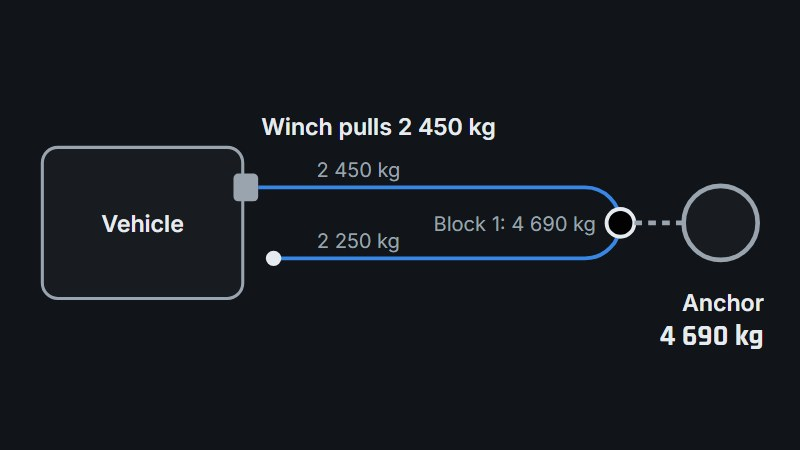
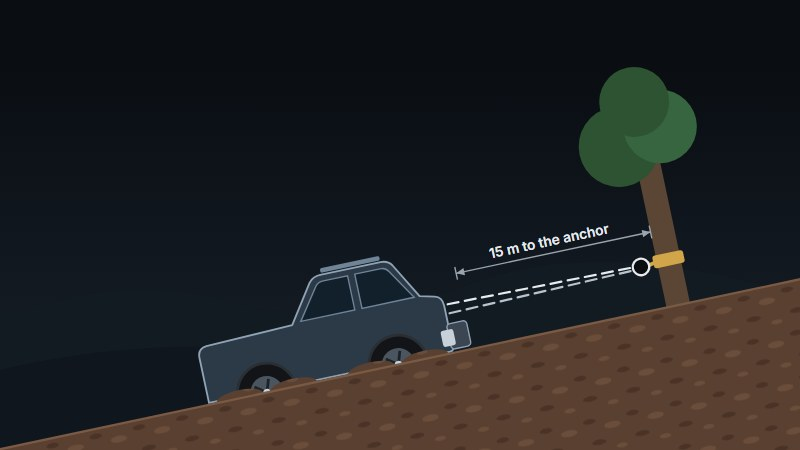
Winch card: the tool's side-view picture
Claude-Session: https://claude.ai/code/session_01MPwbUE6Js7AkBD86WgVmjF

diff --git a/projects.js b/projects.js
@@ -19,7 +19,7 @@ window.PROJECTS = [
   { kind: "tool", title: "SA Fuel Price Preview", description: "Fuel price predictions for South Africa, so you know what's coming at the pump before the official announcement.", url: "https://fuel.psyphin.co.za/", cta: "View predictions", image: "assets/img/projects/fuel-chart.jpg", imageAlt: "Chart of the daily Basic Fuel Price rising through the review period, with estimated days marked", updated: "Live data, updated hourly", tags: ["Data", "South Africa", { label: "Actively maintained", color: "green" }] },
   { kind: "tool", title: "SA Towing Check", description: "Is your car or bakkie plus trailer legal? Checks your licence code, trailer brakes, speed limit and overloading, plus payload and towing ratings, with a source for every rule.", url: "https://towing.psyphin.co.za/", cta: "Check your rig", image: "assets/img/projects/sa-towing-check.jpg", imageAlt: "Side-view diagram of a bakkie towing a trailer, with the mass on each axle and on the tow ball", updated: "Launched 29 Sep 2026", tags: ["Towing", "South Africa", { label: "Actively maintained", color: "green" }] },
   { kind: "tool", title: "4x4 Tyre Pressures", description: "A starting tyre-pressure range for your 4x4's tyres, load and terrain, from tyre-maker load tables and published guidance, with a source for every number. Works offline.", url: "https://tyres.psyphin.co.za/", cta: "Work out pressures", image: "assets/img/projects/sa-tyre-pressures.jpg", imageAlt: "Two 4x4s on the crest of a red sand dune at the Amam Dunes, Northern Cape", updated: "Started 8 Oct 2026", tags: ["4x4", "South Africa", { label: "Under construction", color: "amber" }] },
-  { kind: "tool", title: "Winch & Recovery Sizing", description: "How hard your winch has to pull to get you out, what a double or triple line does, and what your winch and battery go through, with a source for every number.", url: "https://winching.psyphin.co.za/", cta: "Size your recovery", image: "assets/img/projects/winch-recovery-sizing.jpg", imageAlt: "Diagram of a double-line winch pull: the rope runs from the vehicle's winch through a snatch block at a tree anchor and back, with the load on each length of rope", updated: "Started 11 Oct 2026", tags: ["4x4", "Recovery", { label: "Under construction", color: "amber" }] },
+  { kind: "tool", title: "Winch & Recovery Sizing", description: "How hard your winch has to pull to get you out, what a double or triple line does, and what your winch and battery go through, with a source for every number.", url: "https://winching.psyphin.co.za/", cta: "Size your recovery", image: "assets/img/projects/winch-recovery-sizing.jpg", imageAlt: "Drawing of a 4x4 bogged in mud on a slope, winching itself out with a double line through a snatch block at a tree 15 m away", updated: "Started 11 Oct 2026", tags: ["4x4", "Recovery", { label: "Under construction", color: "amber" }] },
   { title: "Digital Radio Hotspot", description: "A true-duplex DMR hotspot on a Raspberry Pi 3B with an MMDVM dual hat, running WPSD and linking a handheld radio to the BrandMeister network.", url: "dmr-hotspot/", cta: "View project", image: "assets/img/projects/dmr-gem.jpg", imageAlt: "The hotspot in its blue 3D-printed case, with two antennas and glowing status lights", updated: "Updated 27 Sep 2026", tags: ["DMR", "Raspberry Pi", { label: "Endurance testing", color: "green" }] },
   { title: "RC SHERP Crawler", description: "A scratch-built 1:15 radio-controlled crawler based on the SHERP ATV, designed in Tinkercad, 3D printed in PETG and TPU, and driven by an ESP32.", url: "sherp-crawler/", cta: "View project", image: "assets/img/projects/sherp-wire.jpg", imageAlt: "Wireframe 3D model of the SHERP-style crawler with its big tyres", updated: "Updated 25 Sep 2026", tags: ["3D printing", "ESP32", { label: "Prototyping", color: "amber" }] },
   { title: "Caravan Battery Monitor", description: "An ESP32-C3 gadget that monitors the caravan's LiFePO4 battery (it doesn't charge it) on its own screen and in Home Assistant, and doubles as a car-battery crank tester.", url: "battery-monitor/", cta: "View project", image: "assets/img/projects/battery-monitor.jpg", imageAlt: "The open black 3D-printed monitor box on a white background, with its OLED showing 12.53 V and the honeycomb lid beside it", updated: "Built Apr 2026; current shunt planned", tags: ["ESP32", "Home Assistant", { label: "Prototyping", color: "amber" }] },

diff --git a/CLAUDE.md b/CLAUDE.md
@@ -137,7 +137,7 @@ Because this is the `psyphin234.github.io` **user site** with a custom domain, *
 
 - Repo `psyphin234/winch-recovery-sizing` (public, since 2026-10-11), local folder `E:\Claude_projects\Winch_Calc`, which has its own CLAUDE.md. **Do winch-calculator work from that folder.**
 - Lives at **https://winching.psyphin.co.za/** since 2026-10-12 (its own `CNAME` plus the Afrihost `winching` CNAME; HTTPS enforced). The first address, `psyphin.co.za/winch-recovery-sizing/`, redirects there. Don't create a `winch-recovery-sizing/` folder here.
-- Under construction (banner and noindex on its pages); its card here has the amber "Under construction" tag. Keep both until the owner says it's ready. Card image `assets/img/projects/winch-recovery-sizing.jpg` is the calculator's own rigging diagram (double line, its deep-mud example) rendered at 800x450.
+- Under construction (banner and noindex on its pages); its card here has the amber "Under construction" tag. Keep both until the owner says it's ready. Card image `assets/img/projects/winch-recovery-sizing.jpg` is the calculator's own side-view picture (a 4x4 bogged to the axles in mud on a 12° slope, double line to a tree 15 m away), rendered at 800x450 with extra sky for the 16:9 crop (since 2026-10-12; before that, the rope diagram).
 
 ### 4x4 Tyre Pressures
 
